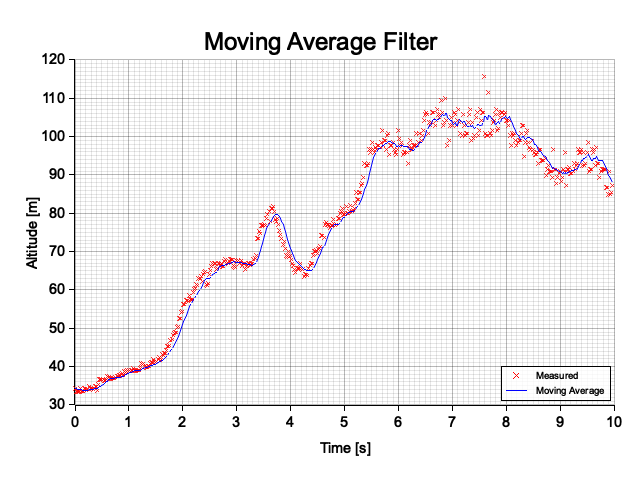
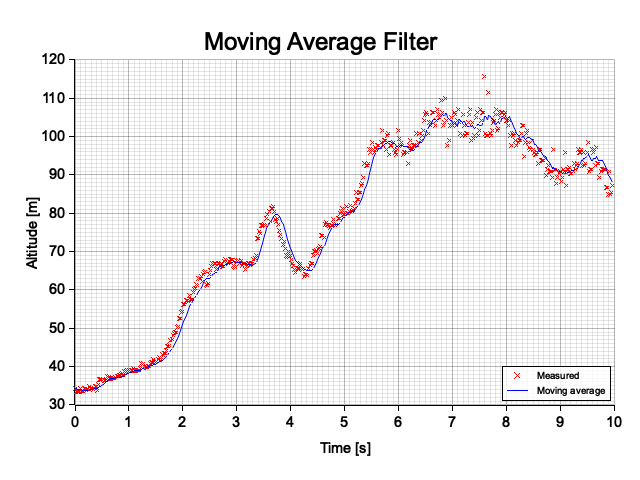
Add velocity with sonar example

diff --git a/src/kalman_filter_test.rs b/src/kalman_filter_test.rs
@@ -591,7 +591,7 @@ pub fn kalman_filter_estimate_velocity_from_position_example() {
     println!("Kalman filter plot written: {}", plot_labels.plot_pathname);
 }
 
-pub fn kalman_filter_estimate_position_from_velocity_example() {
+pub fn kalman_filter_estimate_position_with_velocity_example() {
     // Setup simulation & data logging; inputs based on textbook example
     const DT: f64 = 0.1;
     let times_s: Vec<f64> = ascending_float_range(0.0, 10.0, DT);
@@ -635,7 +635,7 @@ pub fn kalman_filter_estimate_position_from_velocity_example() {
     let y_axis_data2 = &vel_estimates_x;
 
     let plot_labels = PlotLabels {
-        plot_pathname: "./plots/05c_KalmanFilter_PosFromVel.png".to_string(),
+        plot_pathname: "./plots/05c_KalmanFilter_PosWithVel.png".to_string(),
         title: "Kalman Filter".to_string(),
         x_axis_label: "Time [s]".to_string(),
         y_axis_label: "Speed [m/s]".to_string(),
@@ -730,7 +730,7 @@ pub fn kalman_filter_estimate_position_from_velocity_example() {
     let y_axis_data2 = &pos_estimates_x;
 
     let plot_labels = PlotLabels {
-        plot_pathname: "./plots/05d_KalmanFilter_PosFromVel.png".to_string(),
+        plot_pathname: "./plots/05d_KalmanFilter_PosWithVel.png".to_string(),
         title: "Kalman Filter".to_string(),
         x_axis_label: "Time [s]".to_string(),
         y_axis_label: "Position [m]".to_string(),
@@ -795,4 +795,147 @@ pub fn kalman_filter_estimate_position_from_velocity_example() {
     let _ = root.present();
 
     println!("Kalman filter plot written: {}", plot_labels.plot_pathname);
+}
+
+pub fn kalman_filter_measure_velocity_with_sonar_example() {
+    // Load sonar altitude simulation data
+    let file =
+        std::fs::File::open("./data/SonarAlt.mat").expect("Failed to open: ./data/SonarAlt.mat");
+    let mat_file = matfile::MatFile::parse(file).expect("Failed to parse: ./data/SonarAlt.mat");
+
+    if let Some(sonar_alt_arr) = mat_file.find_by_name("sonarAlt") {
+        // Setup simulation & data logging; inputs based on textbook example
+        let num_data_pts: usize = 500; // from example code
+
+        let dt: f64 = 0.02; // from example code
+        let times_s: Vec<f64> = ascending_float_range(0.0, dt * num_data_pts as f64, dt);
+
+        let mut measurements_z = Vec::<f64>::with_capacity(num_data_pts);
+        let mut pos_estimates_x = Vec::<f64>::with_capacity(num_data_pts);
+        let mut vel_estimates_x = Vec::<f64>::with_capacity(num_data_pts);
+
+        // Initialize system model
+        let a = DMatrix::from_row_slice(2, 2, &[1.0, 0.1, 0.0, 1.0]);
+        let q = DMatrix::from_row_slice(2, 2, &[1.0, 0.0, 0.0, 3.0]);
+        let h = DMatrix::from_row_slice(1, 2, &[1.0, 0.0]);
+        let r = DMatrix::from_row_slice(1, 1, &[10.0]);
+
+        let system_model = SystemModel::new(a, q, h, r);
+
+        // Initialize Kalman filter
+        let mut klmn_filt = KalmanFilter::new(
+            system_model,
+            DVector::from_column_slice(&[0.0, 20.0]),
+            DMatrix::from_row_slice(2, 2, &[5.0, 0.0, 0.0, 5.0]),
+        );
+
+        // Run simulation
+        if let matfile::NumericData::Double { real, .. } = sonar_alt_arr.data() {
+            for i in 0..num_data_pts {
+                let data_pt = real[i];
+                klmn_filt.update(DVector::from_element(1, data_pt));
+
+                // Log data for plotting
+                measurements_z.push(data_pt);
+                pos_estimates_x.push(klmn_filt.get_state_estimate()[0]);
+                vel_estimates_x.push(klmn_filt.get_state_estimate()[1]);
+            }
+        }
+
+        // --- MAKE PLOTS ----------------------------------------------------//
+        // Build and save graph using plotters crate; graph format based on textbook example
+        let x_axis_data = &times_s;
+        let y_axis_data1 = &measurements_z;
+        let y_axis_data2 = &pos_estimates_x;
+
+        let plot_labels = PlotLabels {
+            plot_pathname: "./plots/05e_KalmanFilter_VelWithSonar.png".to_string(),
+            title: "Kalman Filter".to_string(),
+            x_axis_label: "Time [s]".to_string(),
+            y_axis_label: "Distance [m]".to_string(),
+            y_axis_data1_label: "Measurements".to_string(),
+            y_axis_data2_label: "Kalman Filter".to_string(),
+        };
+
+        let root = BitMapBackend::new(&plot_labels.plot_pathname, (640, 480)).into_drawing_area();
+        let _ = root.fill(&WHITE);
+
+        // Configure the chart
+        let mut chart = ChartBuilder::on(&root)
+            .caption(plot_labels.title, ("sans-serif", 30).into_font())
+            .margin(25)
+            .x_label_area_size(50)
+            .y_label_area_size(50)
+            .build_cartesian_2d(0f64..10f64, 0f64..120f64)
+            .expect("ChartBuilder failed");
+
+        // Configure mesh with axis labels and grid lines
+        chart
+            .configure_mesh()
+            .x_labels(20) // increments of 1
+            .y_labels(10) // increments of 10
+            .x_desc(plot_labels.x_axis_label) // Label for the x-axis
+            .y_desc(plot_labels.y_axis_label) // Label for the y-axis
+            .x_label_style(("sans-serif", 18).into_font())
+            .y_label_style(("sans-serif", 18).into_font())
+            .x_label_formatter(&|x| format!("{}", *x as i64))
+            .y_label_formatter(&|y| format!("{}", *y as i64))
+            .draw()
+            .expect("configure_mesh() failed");
+
+        // Plot the raw data as red points
+        chart
+            .draw_series(PointSeries::of_element(
+                x_axis_data
+                    .iter()
+                    .zip(y_axis_data1.iter())
+                    .map(|(&x, &y)| (x, y)),
+                2, // Size of the points
+                &RED,
+                &|coord, size, style| {
+                    return EmptyElement::at(coord) + Cross::new((0, 0), size, style.filled());
+                },
+            ))
+            .expect(
+                format!(
+                    "draw_series() PointSeries {} failed",
+                    plot_labels.y_axis_data1_label
+                )
+                .as_str(),
+            )
+            .label(plot_labels.y_axis_data1_label)
+            .legend(|(x, y)| EmptyElement::at((x + 10, y)) + Cross::new((0, 0), 3, RED.filled()));
+
+        // Plot the filtered data as a blue line
+        chart
+            .draw_series(LineSeries::new(
+                x_axis_data
+                    .iter()
+                    .zip(y_axis_data2.iter())
+                    .map(|(&x_val, &y_val)| (x_val, y_val)),
+                &BLUE,
+            ))
+            .expect(
+                format!(
+                    "draw_series() LineSeries {} failed",
+                    plot_labels.y_axis_data2_label
+                )
+                .as_str(),
+            )
+            .label(plot_labels.y_axis_data2_label)
+            .legend(|(x, y)| PathElement::new(vec![(x, y), (x + 20, y)], &BLUE));
+
+        chart
+            .configure_series_labels()
+            .position(SeriesLabelPosition::LowerRight)
+            .margin(5)
+            .background_style(&WHITE.mix(0.8))
+            .border_style(&BLACK)
+            .draw()
+            .expect("configure_series_labels() failed");
+
+        let _ = root.present();
+
+        println!("Kalman filter plot written: {}", plot_labels.plot_pathname);
+    }
 }

diff --git a/src/recursive_filters_test.rs b/src/recursive_filters_test.rs
@@ -162,10 +162,9 @@ pub fn average_filter_example() {
 
 pub fn moving_average_filter_example() {
     // Load sonar altitude simulation data
-    let file = std::fs::File::open("./data/SonarAlt_Ex02_Ex03.mat")
-        .expect("Failed to open: ./data/SonarAlt_Ex02_Ex03.mat");
-    let mat_file =
-        matfile::MatFile::parse(file).expect("Failed to parse: ./data/SonarAlt_Ex02_Ex03.mat");
+    let file =
+        std::fs::File::open("./data/SonarAlt.mat").expect("Failed to open: ./data/SonarAlt.mat");
+    let mat_file = matfile::MatFile::parse(file).expect("Failed to parse: ./data/SonarAlt.mat");
 
     if let Some(sonar_alt_arr) = mat_file.find_by_name("sonarAlt") {
         // Setup simulation & data logging; inputs based on textbook example
@@ -194,13 +193,25 @@ pub fn moving_average_filter_example() {
 
         // --- MAKE PLOTS ----------------------------------------------------//
         // Build and save graph using plotters crate; graph format based on textbook example
-        let root = BitMapBackend::new("./plots/02_MovingAverageFilter.png", (640, 480))
-            .into_drawing_area();
+        let x_axis_data = &times_s;
+        let y_axis_data1 = &raw_data;
+        let y_axis_data2 = &filtered_data;
+
+        let plot_labels = PlotLabels {
+            plot_pathname: "./plots/02_MovingAverageFilter.png".to_string(),
+            title: "Moving Average Filter".to_string(),
+            x_axis_label: "Time [s]".to_string(),
+            y_axis_label: "Altitude [m]".to_string(),
+            y_axis_data1_label: "Measured".to_string(),
+            y_axis_data2_label: "Moving average".to_string(),
+        };
+
+        let root = BitMapBackend::new(&plot_labels.plot_pathname, (640, 480)).into_drawing_area();
         let _ = root.fill(&WHITE);
 
         // Configure the chart
         let mut chart = ChartBuilder::on(&root)
-            .caption("Moving Average Filter", ("sans-serif", 30).into_font())
+            .caption(plot_labels.title, ("sans-serif", 30).into_font())
             .margin(25)
             .x_label_area_size(50)
             .y_label_area_size(50)
@@ -212,8 +223,8 @@ pub fn moving_average_filter_example() {
             .configure_mesh()
             .x_labels(20) // increments of 1
             .y_labels(10) // increments of 10
-            .x_desc("Time [s]") // Label for the x-axis
-            .y_desc("Altitude [m]") // Label for the y-axis
+            .x_desc(plot_labels.x_axis_label) // Label for the x-axis
+            .y_desc(plot_labels.y_axis_label) // Label for the y-axis
             .x_label_style(("sans-serif", 18).into_font())
             .y_label_style(("sans-serif", 18).into_font())
             .x_label_formatter(&|x| format!("{}", *x as i64))
@@ -224,29 +235,43 @@ pub fn moving_average_filter_example() {
         // Plot the raw data as red points
         chart
             .draw_series(PointSeries::of_element(
-                times_s.iter().zip(raw_data.iter()).map(|(&x, &y)| (x, y)),
+                x_axis_data
+                    .iter()
+                    .zip(y_axis_data1.iter())
+                    .map(|(&x, &y)| (x, y)),
                 2, // Size of the points
                 &RED,
                 &|coord, size, style| {
-                    return EmptyElement::at(coord)
-                        + Cross::new((0, 0), size, style.color.mix(0.8));
+                    return EmptyElement::at(coord) + Cross::new((0, 0), size, style.filled());
                 },
             ))
-            .expect("draw_series() PointSeries raw data failed")
-            .label("Measured")
+            .expect(
+                format!(
+                    "draw_series() PointSeries {} failed",
+                    plot_labels.y_axis_data1_label
+                )
+                .as_str(),
+            )
+            .label(plot_labels.y_axis_data1_label)
             .legend(|(x, y)| EmptyElement::at((x + 10, y)) + Cross::new((0, 0), 3, RED.filled()));
 
         // Plot the filtered data as a blue line
         chart
             .draw_series(LineSeries::new(
-                times_s
+                x_axis_data
                     .iter()
-                    .zip(filtered_data.iter())
+                    .zip(y_axis_data2.iter())
                     .map(|(&x_val, &y_val)| (x_val, y_val)),
                 &BLUE,
             ))
-            .expect("draw_series() LineSeries filtered data failed")
-            .label("Moving Average")
+            .expect(
+                format!(
+                    "draw_series() LineSeries {} failed",
+                    plot_labels.y_axis_data2_label
+                )
+                .as_str(),
+            )
+            .label(plot_labels.y_axis_data2_label)
             .legend(|(x, y)| PathElement::new(vec![(x, y), (x + 20, y)], &BLUE));
 
         chart
@@ -260,16 +285,18 @@ pub fn moving_average_filter_example() {
 
         let _ = root.present();
 
-        println!("Moving average filter plot written: ./plots/02_MovingAverageFilter.png");
+        println!(
+            "Low pass filter plot written: {}",
+            plot_labels.plot_pathname
+        );
     }
 }
 
 pub fn first_order_low_pass_filter_example() {
     // Load sonar altitude simulation data
-    let file = std::fs::File::open("./data/SonarAlt_Ex02_Ex03.mat")
-        .expect("Failed to open: ./data/SonarAlt_Ex02_Ex03.mat");
-    let mat_file =
-        matfile::MatFile::parse(file).expect("Failed to parse: ./data/SonarAlt_Ex02_Ex03.mat");
+    let file =
+        std::fs::File::open("./data/SonarAlt.mat").expect("Failed to open: ./data/SonarAlt.mat");
+    let mat_file = matfile::MatFile::parse(file).expect("Failed to parse: ./data/SonarAlt.mat");
 
     if let Some(sonar_alt_arr) = mat_file.find_by_name("sonarAlt") {
         // Setup simulation & data logging; inputs based on textbook example

diff --git a/src/main.rs b/src/main.rs
@@ -4,8 +4,9 @@ pub mod sensor_spoofs;
 pub mod utils;
 
 use crate::kalman_filter_test::{
-    kalman_filter_estimate_position_from_velocity_example,
+    kalman_filter_estimate_position_with_velocity_example,
     kalman_filter_estimate_velocity_from_position_example, kalman_filter_extremely_simple_example,
+    kalman_filter_measure_velocity_with_sonar_example,
 };
 use crate::recursive_filters_test::{
     average_filter_example, first_order_low_pass_filter_example, moving_average_filter_example,
@@ -21,5 +22,6 @@ fn main() {
     kalman_filter_extremely_simple_example();
 
     kalman_filter_estimate_velocity_from_position_example();
-    kalman_filter_estimate_position_from_velocity_example();
+    kalman_filter_estimate_position_with_velocity_example();
+    kalman_filter_measure_velocity_with_sonar_example();
 }
